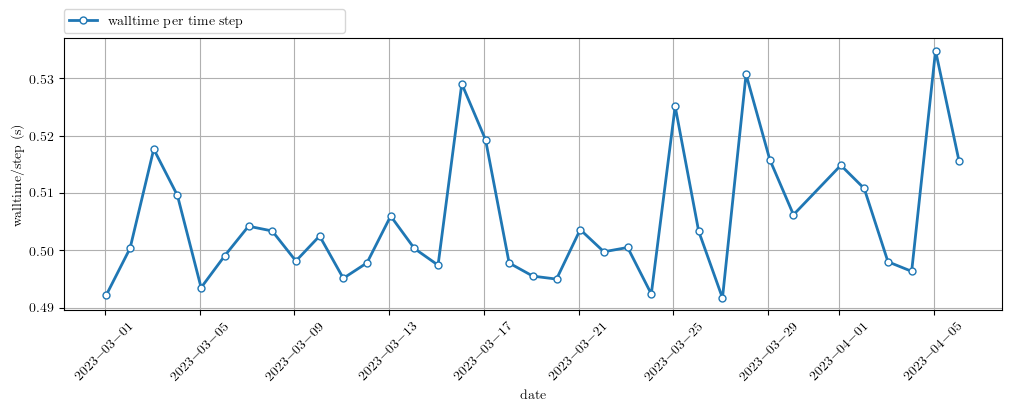
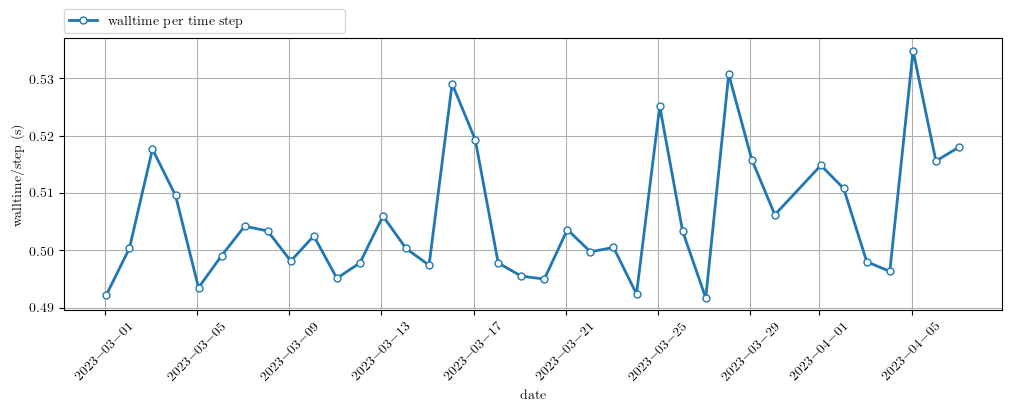
Automatic timing summary commit: lassen708 2023-04-07 01:01

diff --git a/README.md b/README.md
@@ -1,4 +1,4 @@
-Timings last ran on: 2023.04.06
+Timings last ran on: 2023.04.07
 
 # Status of production timings
 
